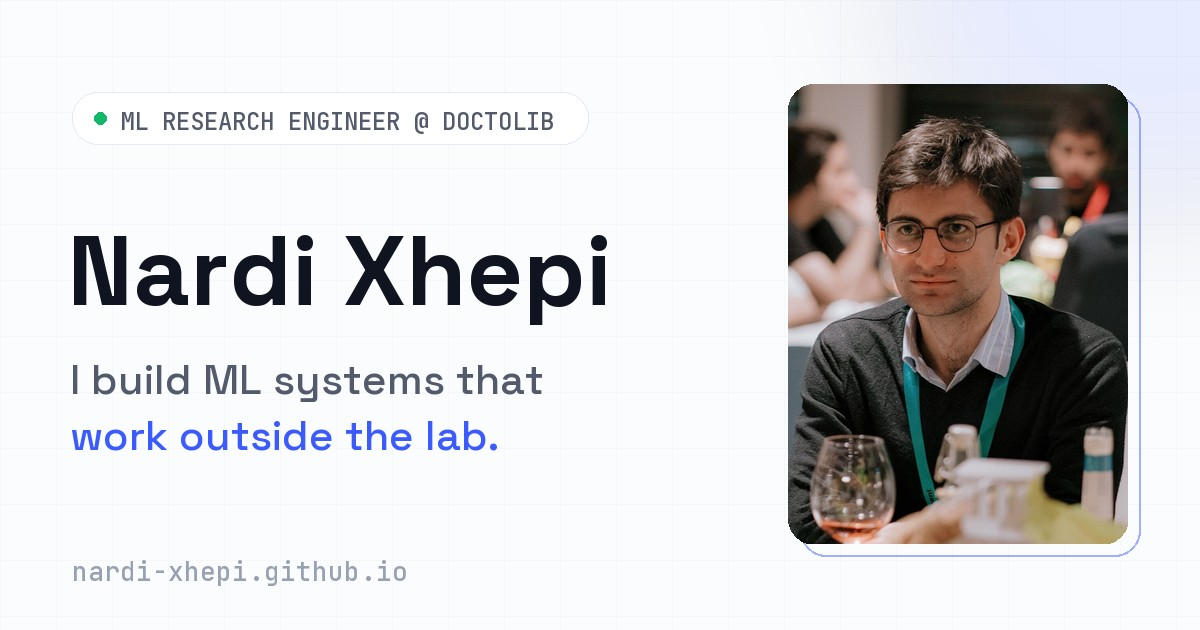
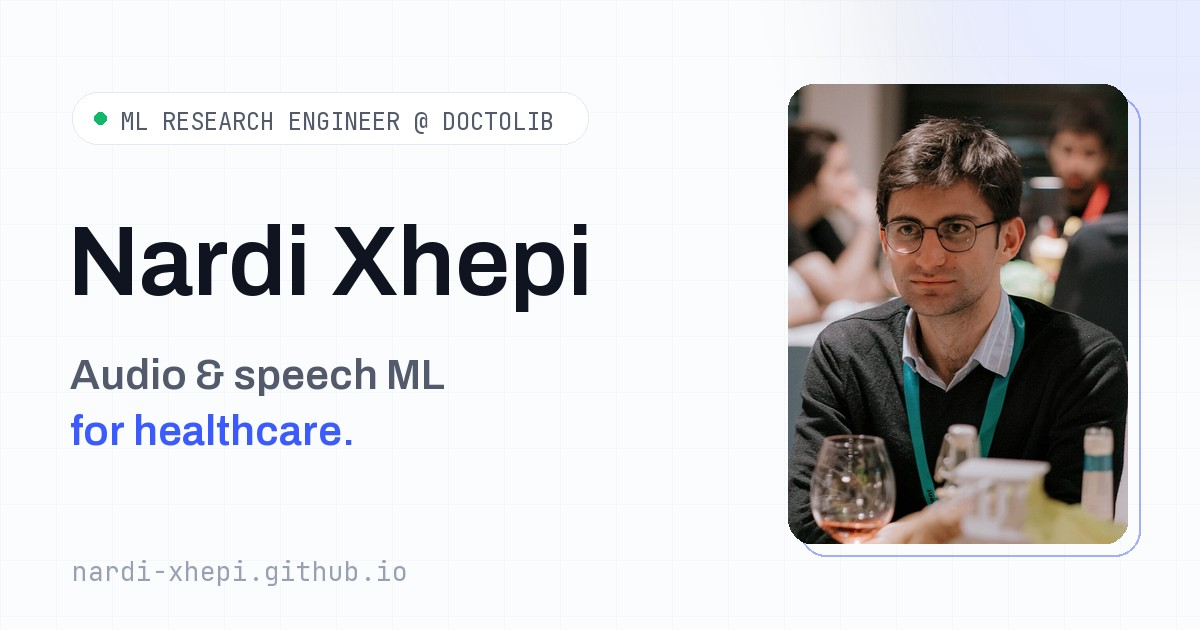
New headline: factual role + domain, updated OG card in Archivo

diff --git a/index.html b/index.html
@@ -57,15 +57,15 @@
     <section class="hero">
         <div class="hero-inner">
             <div class="hero-text">
-                <p class="hero-status fade-up"><span class="dot"></span>currently: ML Research Engineer @ Doctolib</p>
+                <p class="hero-status fade-up"><span class="dot"></span>currently @ Doctolib</p>
                 <p class="hero-eyebrow fade-up" style="--stagger:60ms"><span class="wave-mark" aria-hidden="true"><svg width="75" height="20" viewBox="0 0 75 20" fill="currentColor"><rect x="0" y="8" width="3" height="4" rx="1.5"/><rect x="6" y="7" width="3" height="6" rx="1.5"/><rect x="12" y="5.5" width="3" height="9" rx="1.5"/><rect x="18" y="4" width="3" height="12" rx="1.5"/><rect x="24" y="6" width="3" height="8" rx="1.5"/><rect x="30" y="3" width="3" height="14" rx="1.5"/><rect x="36" y="1" width="3" height="18" rx="1.5"/><rect x="42" y="3" width="3" height="14" rx="1.5"/><rect x="48" y="6" width="3" height="8" rx="1.5"/><rect x="54" y="4" width="3" height="12" rx="1.5"/><rect x="60" y="5.5" width="3" height="9" rx="1.5"/><rect x="66" y="7" width="3" height="6" rx="1.5"/><rect x="72" y="8" width="3" height="4" rx="1.5"/></svg></span>Nardi Xhepi</p>
                 <h1 class="hero-title fade-up" style="--stagger:120ms">
-                    I build ML systems that work outside the <em class="serif-accent">lab</em>.
+                    ML Research Engineer working on <em class="serif-accent">audio &amp; speech</em>.
                 </h1>
                 <p class="hero-bio fade-up" style="--stagger:180ms">
-                    ML Research Engineer at <strong>Doctolib</strong>, working on audio ML for
-                    healthcare. Double M.S. in Data Science at <strong>École Polytechnique</strong> and
-                    AI at <strong>Télécom Paris</strong>. Previously Generative AI at
+                    At <strong>Doctolib</strong>, I work on audio ML for healthcare. Double M.S. in
+                    Data Science at <strong>École Polytechnique</strong> and AI at
+                    <strong>Télécom Paris</strong>. Previously Generative AI at
                     <strong>Dassault Systèmes</strong> and anomaly detection at <strong>EDF</strong>.
                 </p>
                 <div class="hero-cta fade-up" style="--stagger:240ms">
